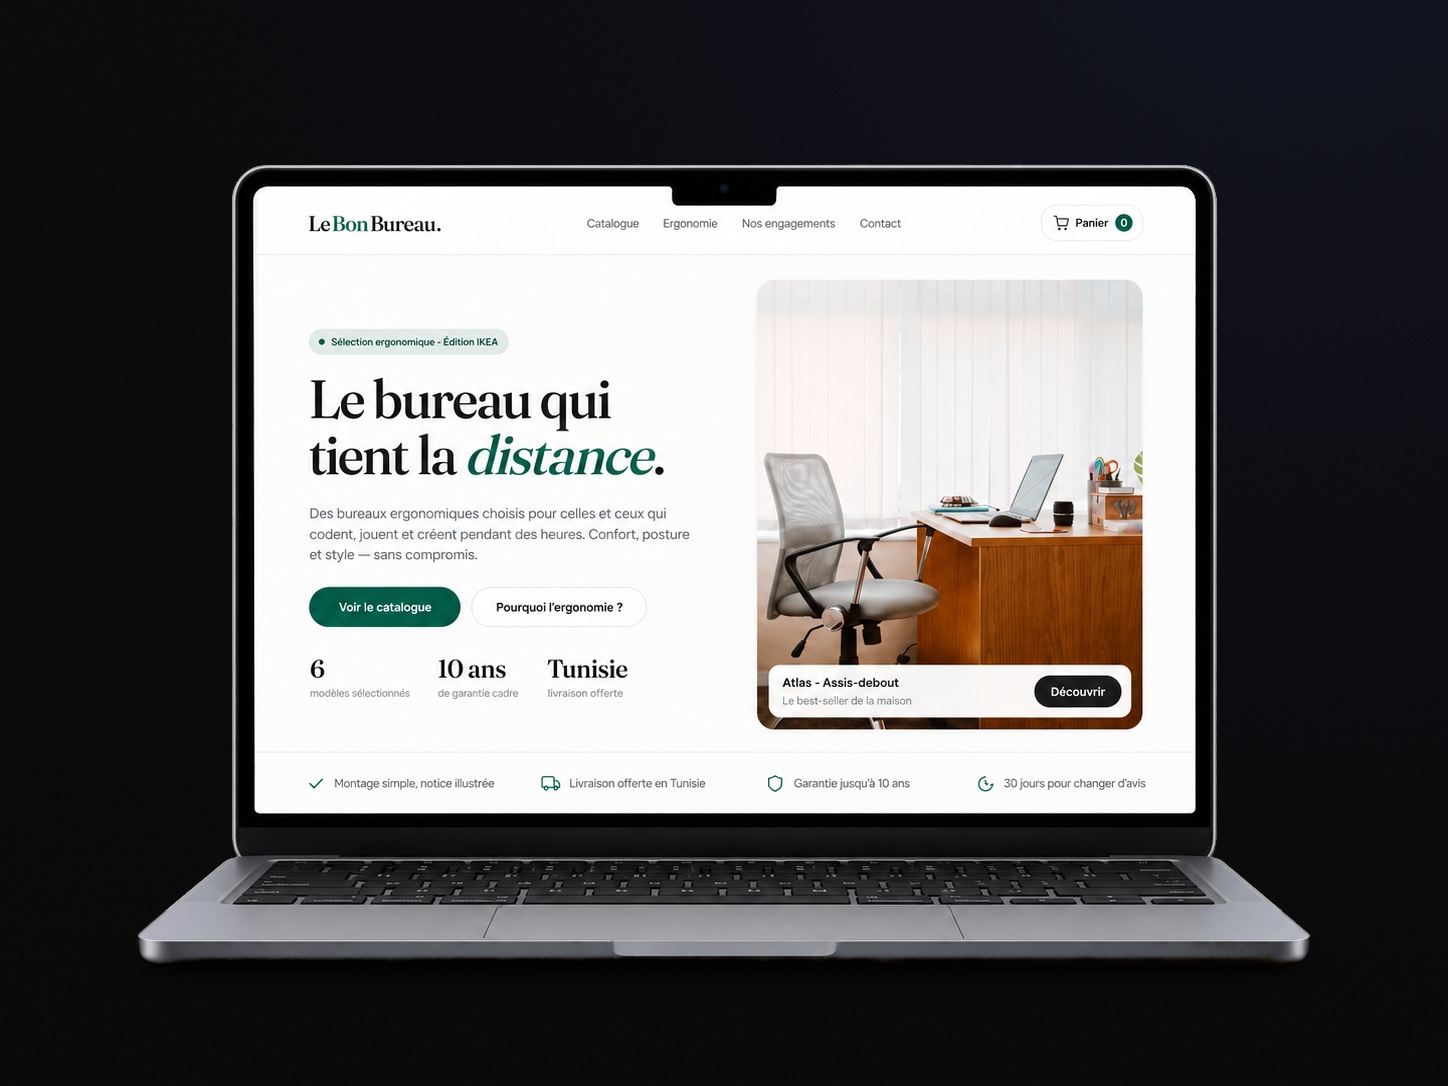
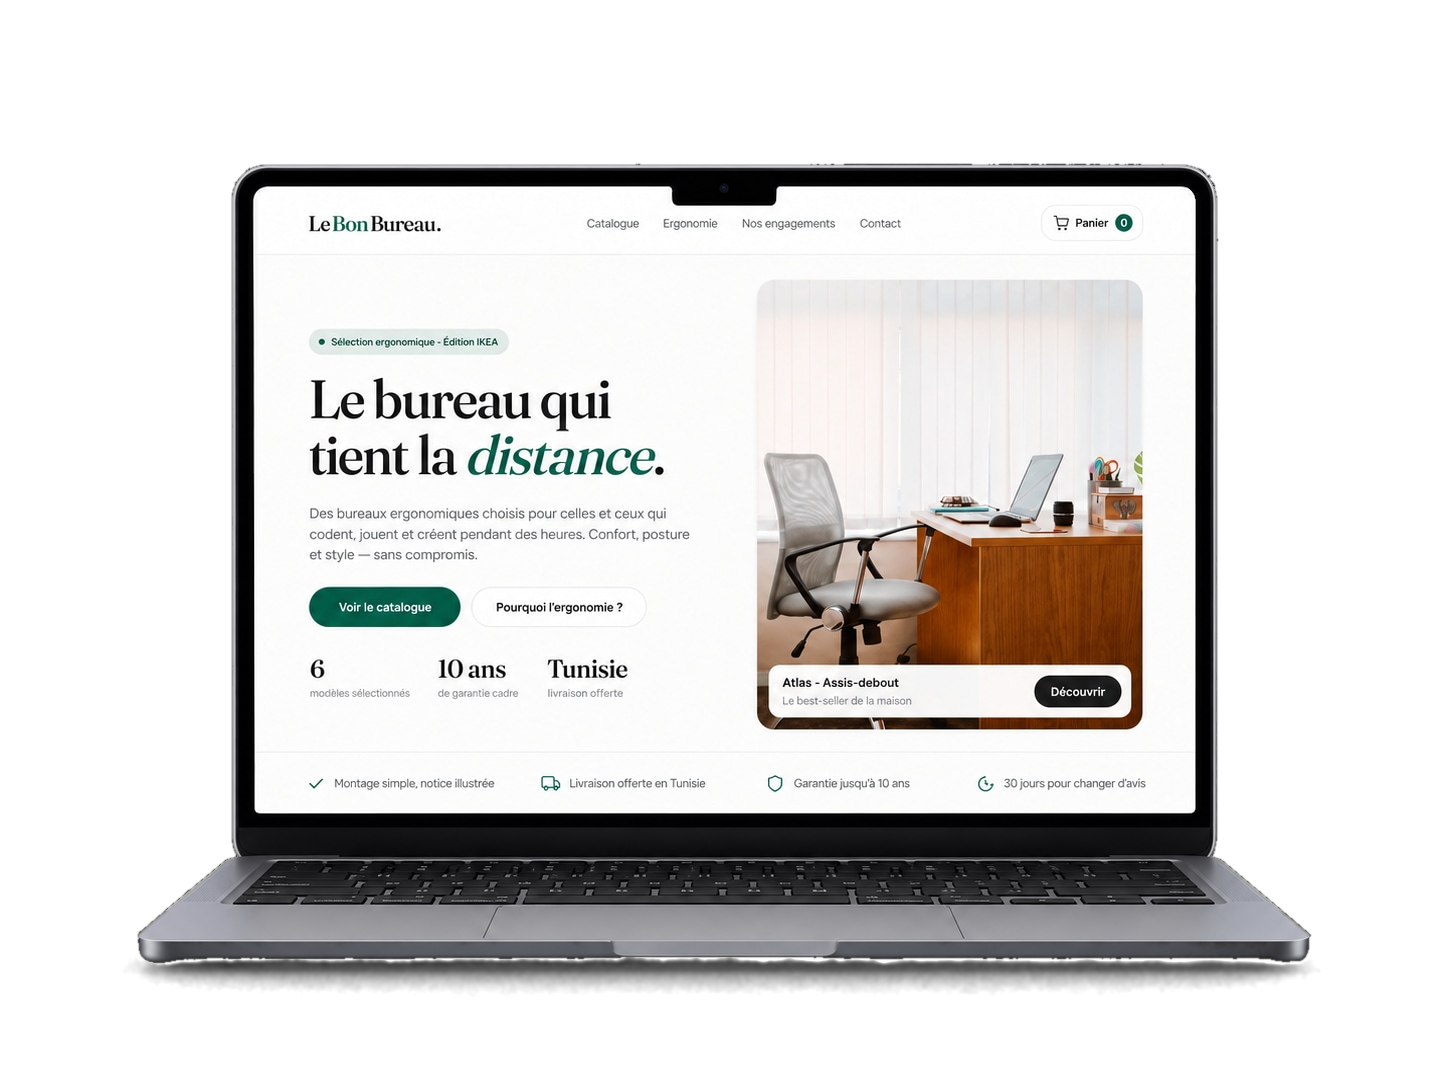
Make project mockups transparent and give desktop apps a gray wallpaper
- Add scripts/cutout.py to remove the dark background around AI-made mockups
- Keep the frame's transparency in scripts/mockup.py
- Put PromptStream and BackupMaster on a graphite wallpaper
- Rebuild the Taroura Arena mockup from the new site, MacBook only

diff --git a/website/scripts/cutout.py b/website/scripts/cutout.py
@@ -1,0 +1,29 @@
+# Make the dark background around a mockup transparent, keeping the device shadows.
+# usage: python3 scripts/cutout.py <in.png> <out.png>
+import sys
+
+import numpy as np
+from PIL import Image
+from scipy import ndimage
+
+src, out = sys.argv[1:3]
+rgb = np.array(Image.open(src).convert("RGB")).astype(float)
+lum = rgb @ [0.299, 0.587, 0.114]
+
+# background = dark pixels connected to the canvas edge; the bright device rims stop it
+labels, _ = ndimage.label(lum < 30)
+edge_ids = np.unique(np.concatenate([labels[0], labels[-1], labels[:, 0], labels[:, -1]]))
+outside = np.isin(labels, edge_ids[edge_ids > 0])
+inside = ndimage.gaussian_filter((~outside).astype(float), 0.7)
+
+# old background level, filled in under the device from the plain areas around it
+far = outside & (ndimage.distance_transform_edt(outside) > 60)
+bg = ndimage.gaussian_filter(lum * far, 40) / np.maximum(ndimage.gaussian_filter(far.astype(float), 40), 1e-6)
+smooth = ndimage.gaussian_filter(lum * outside, 2) / np.maximum(ndimage.gaussian_filter(outside.astype(float), 2), 1e-6)
+shadow = np.clip((1 - smooth / np.maximum(bg, 1)) - 0.1, 0, 1) / 0.9 * outside
+
+alpha = np.maximum(inside, shadow)
+color = np.where((outside & (inside < 0.01))[..., None], 0, rgb)
+rgba = np.dstack([color, alpha * 255]).round().clip(0, 255).astype(np.uint8)
+Image.fromarray(rgba, "RGBA").save(out, optimize=True)
+print("saved", out)

diff --git a/website/scripts/mockup.py b/website/scripts/mockup.py
@@ -14,7 +14,7 @@ parser.add_argument("--bar", default="#000000", help="status bar color, use the 
 parser.add_argument("--frame", default=HERE.parent / "public/projects/menumate-demo.png")
 args = parser.parse_args()
 
-frame = Image.open(args.frame).convert("RGB")
+frame = Image.open(args.frame).convert("RGBA")
 px = frame.load()
 
 
@@ -66,7 +66,7 @@ screen = Image.new("RGB", crop.size, (0, 0, 0))
 screen.paste(cover(Image.open(args.desktop).convert("RGB"), crop.width, crop.height - pad - band), (0, pad + band))
 screen.paste(crop, (0, 0), bezel)
 frame.paste(screen, box[:2])
-canvas = frame.convert("RGBA")
+canvas = frame
 
 if args.phone:
     mob = Image.open(args.phone).convert("RGB")
@@ -136,5 +136,5 @@ if args.phone:
     layer = layer.resize((PW + 2 * M, PH + 2 * M), Image.LANCZOS)
     canvas.alpha_composite(layer, (X0 - M, Y0 - M))
 
-canvas.convert("RGB").save(args.out, optimize=True)
+canvas.save(args.out, optimize=True)
 print("saved", args.out, canvas.size)
